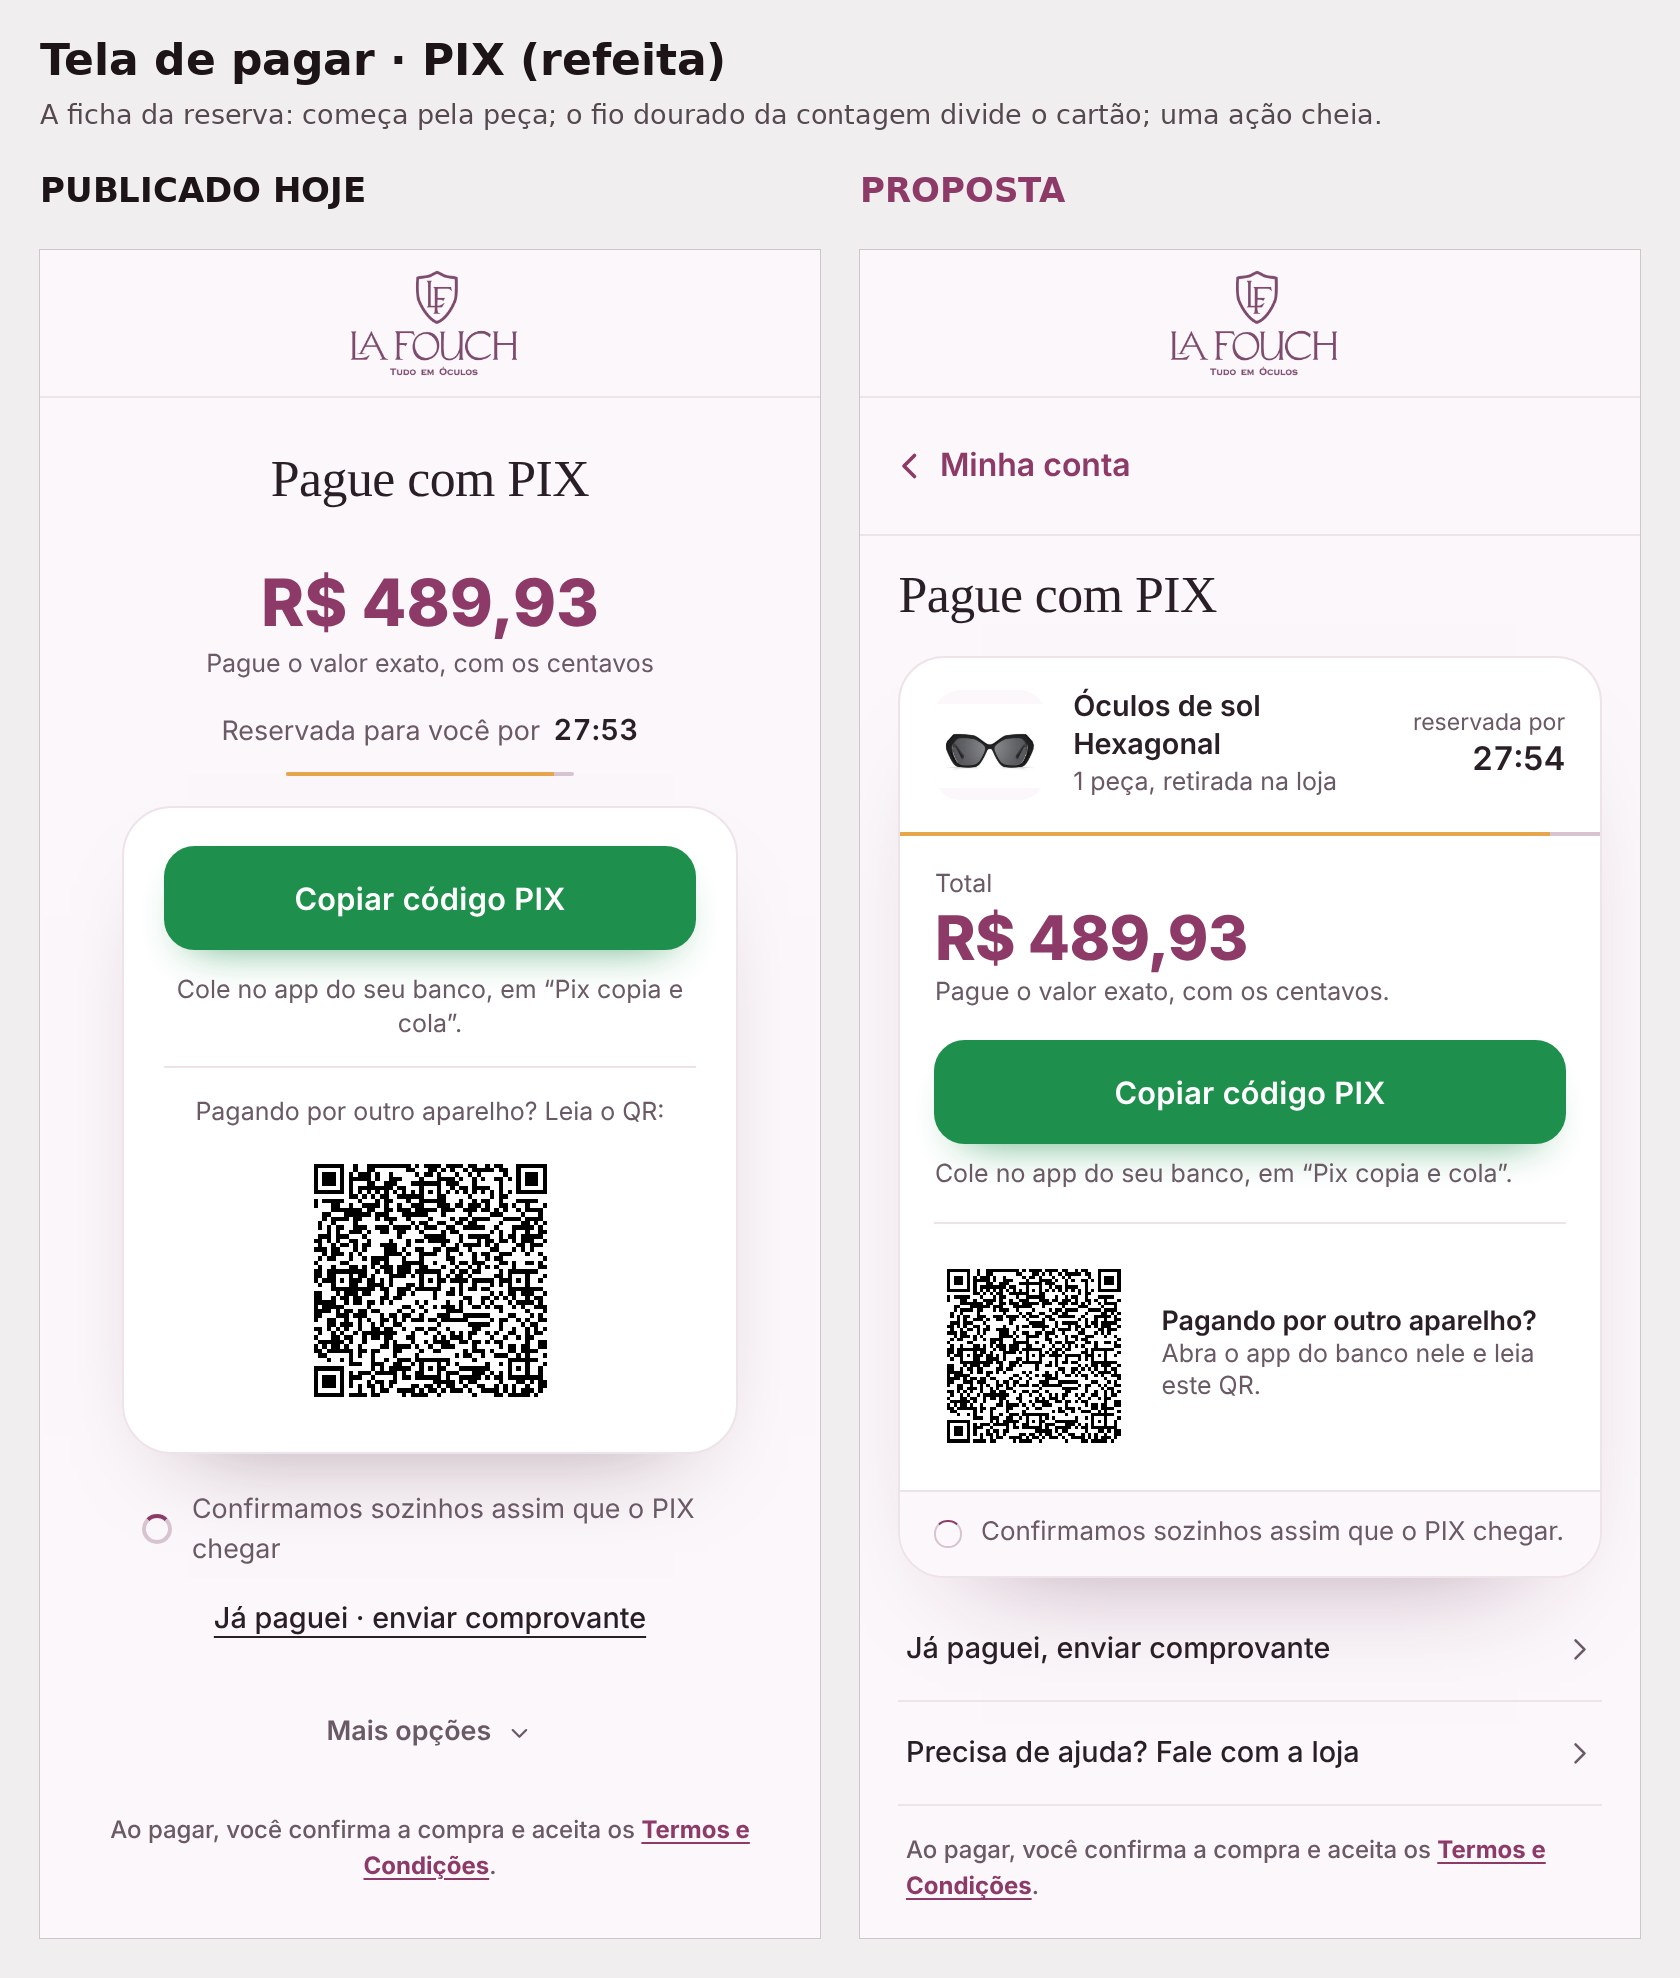
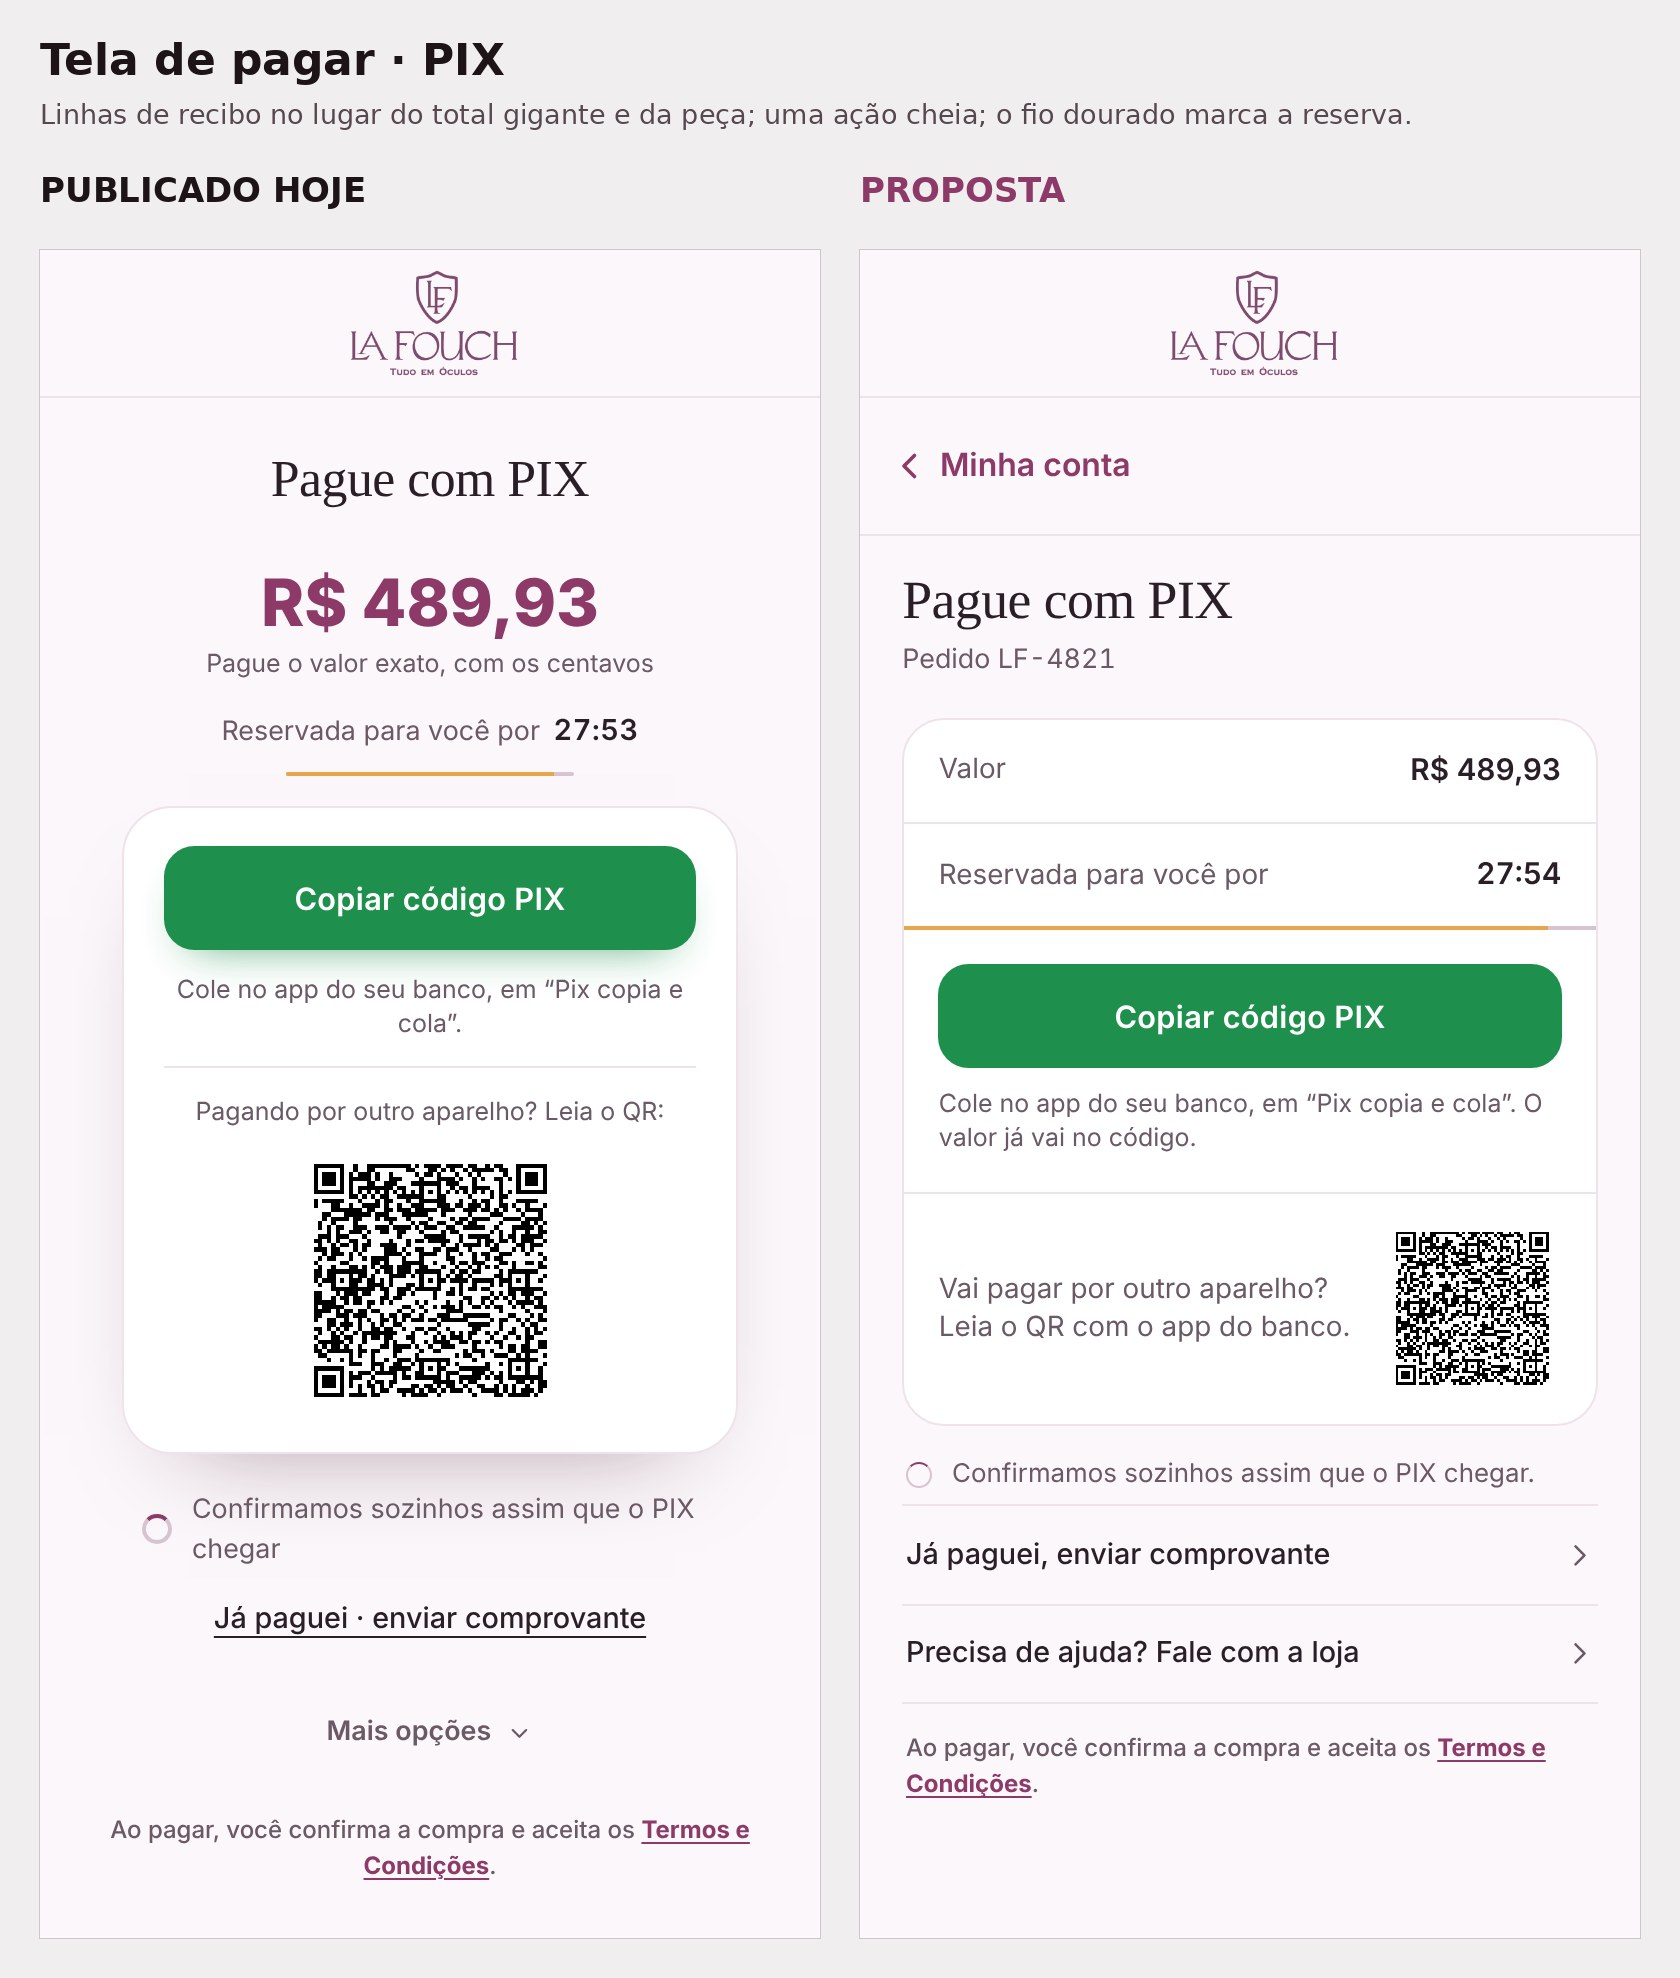
S317: tela de pagar em linhas de recibo e cartão do pedido alinhado (esboço)
Claude-Session: https://claude.ai/code/session_01Vj5GPR2QjandaFr6ascRKC

diff --git a/work/s316/novo2.js b/work/s316/novo2.js
@@ -1,0 +1,63 @@
+// S317 — tela de pagar, 2ª versão (só esboço). Raciocínio de e-commerce: o cliente JÁ conferiu as peças e o total três vezes (sacola, entrega, pagamento);
+// esta tela tem um trabalho só — fazer pagar sem dúvida. Então: nada de peça nem total gigante; os dados viram LINHAS de recibo (rótulo à esquerda, valor à direita),
+// o mesmo componente serve PIX e transferência; uma ação cheia; o fio dourado da reserva é a única coisa "com cor" além do botão.
+() => {
+  const o = document.getElementById('pkok'); if (!o) return 'sem tela';
+  const pix = !!o.querySelector('#pgq'), T = (s) => { const e = o.querySelector(s); return e ? e.innerText.trim() : ''; };
+  const valor = T('.pgv'), tempo = T('#cdxt'), u = o.querySelector('#cdxb'), pct = u ? parseFloat(u.style.width) || 93 : 93;
+  const qr = pix ? o.querySelector('#pgq svg') : null, japag = o.querySelector('#pgcl') && !o.querySelector('#pgcl').hidden;
+  const alias = (o.querySelector('.pgr b') || {}).innerText || '', tit = T('.pgtit').replace(/^Titular:\s*/, '');
+  const topo = document.querySelector('.top').getBoundingClientRect().bottom;
+  const st = document.createElement('style');
+  st.textContent = `
+#zb{position:fixed;left:0;right:0;z-index:10000;display:flex;align-items:center;padding:12px 16px 12px 14px;background:var(--bg);border-bottom:1px solid var(--ln);box-sizing:border-box;zoom:calc(1/var(--z,1))}
+#zb button{display:inline-flex;align-items:center;gap:6px;min-height:44px;padding:10px 6px 10px 2px;background:none;border:0;border-radius:10px;color:var(--ac);font:600 16px Inter,system-ui,sans-serif}
+#pkok.zz{display:block;text-align:left;padding-left:22px;padding-right:22px;padding-bottom:28px}
+#pkok.zz .zw{max-width:400px;margin:0 auto}
+#pkok.zz h2{font-size:28px;line-height:1.15;margin:0;text-align:left;animation:none}
+.zn{margin:6px 0 20px;font:400 14px/1.3 Inter,system-ui,sans-serif;color:var(--mu);font-variant-numeric:tabular-nums}
+.zc{background:var(--pn);border:1px solid var(--ln);border-radius:22px;overflow:hidden}
+.zr{display:flex;align-items:center;justify-content:space-between;gap:14px;min-height:54px;padding:0 18px;border-top:1px solid var(--ln);font:400 14.5px/1.3 Inter,system-ui,sans-serif;color:var(--mu)}
+.zc>.zr:first-child{border-top:0}
+.zr b{font:600 15.5px/1.3 Inter,system-ui,sans-serif;color:var(--tx);font-variant-numeric:tabular-nums;text-align:right;overflow-wrap:anywhere}
+.zr span.zk{display:inline-flex;align-items:center;gap:12px}
+.zr button{flex:none;min-height:44px;padding:0;background:none;border:0;color:var(--ac);font:600 14px Inter,system-ui,sans-serif}
+.zf{height:2px;background:var(--ln2)}.zf i{display:block;height:100%;background:#e6a64c}
+.zm{padding:18px}
+.zP{display:flex;align-items:center;justify-content:center;width:100%;min-height:54px;margin:0;border:0;border-radius:16px;background:#1f8f4e;color:#fff;font:600 16px Inter,system-ui,sans-serif;letter-spacing:.01em}
+.zl{margin-top:10px;font:400 13px/1.4 Inter,system-ui,sans-serif;color:var(--mu)}
+.zq{display:flex;align-items:center;justify-content:space-between;gap:14px;padding:14px 18px;border-top:1px solid var(--ln);font:400 14.5px/1.35 Inter,system-ui,sans-serif;color:var(--mu)}
+.zq svg{flex:none;width:92px!important;height:92px!important;border-radius:8px;background:#fff}
+.zs{display:flex;align-items:center;gap:10px;margin:16px 2px 6px;font:400 13.5px/1.35 Inter,system-ui,sans-serif;color:var(--mu)}
+.zs .spn{width:14px;height:14px;border-width:2px}
+.za a{display:flex;align-items:center;justify-content:space-between;min-height:52px;padding:0 2px;border-top:1px solid var(--ln);color:var(--tx);font:500 15px Inter,system-ui,sans-serif;text-decoration:none}
+.za a:last-child{border-bottom:1px solid var(--ln)}
+.za a svg{color:var(--mu);flex:none}
+#pkok.zz .tm{margin:14px 2px 0;text-align:left;max-width:none}`;
+  document.head.appendChild(st);
+  const bar = document.createElement('div'); bar.id = 'zb'; bar.style.top = topo + 'px';
+  bar.innerHTML = '<button type="button"><svg width="18" height="18" viewBox="0 0 24 24" fill="none" stroke="currentColor" stroke-width="2.4" stroke-linecap="round" stroke-linejoin="round" aria-hidden="true"><path d="M15 5l-7 7 7 7"/></svg><span>Minha conta</span></button>';
+  document.body.appendChild(bar);
+  const SETA = '<svg width="16" height="16" viewBox="0 0 24 24" fill="none" stroke="currentColor" stroke-width="2" stroke-linecap="round" stroke-linejoin="round" aria-hidden="true"><path d="M9 5l7 7-7 7"/></svg>';
+  const L = (r, v, cp) => '<div class="zr"><span>' + r + '</span><span class="zk"><b>' + v + '</b>' + (cp ? '<button type="button">Copiar</button>' : '') + '</span></div>';
+  const reserva = L('Reservada para você por', tempo) + '<div class="zf"><i style="width:' + pct + '%"></i></div>';
+  let corpo, estado, acoes = '';
+  if (pix) {
+    corpo = L('Valor', valor) + reserva +
+      '<div class="zm"><button type="button" class="zP">Copiar código PIX</button><div class="zl">Cole no app do seu banco, em “Pix copia e cola”. O valor já vai no código.</div></div>' +
+      '<div class="zq"><span>Vai pagar por outro aparelho?<br>Leia o QR com o app do banco.</span><span id="zqr"></span></div>';
+    estado = '<div class="zs"><span class="spn"></span><span>Confirmamos sozinhos assim que o PIX chegar.</span></div>';
+    if (japag) acoes += '<a href="#">Já paguei, enviar comprovante' + SETA + '</a>';
+  } else {
+    corpo = L('Valor exato', valor, 1) + L('Alias (celular)', alias, 1) + L('Titular', tit) + reserva +
+      '<div class="zm"><button type="button" class="zP">Já transferi, enviar comprovante</button><div class="zl">Transfira o valor exato pelo app do seu banco e envie o comprovante aqui.</div></div>';
+    estado = '<div class="zs"><span>Confirmamos o pedido assim que conferirmos o comprovante.</span></div>';
+  }
+  acoes += '<a href="#">Precisa de ajuda? Fale com a loja' + SETA + '</a>';
+  const termos = o.querySelector('.tm').outerHTML;
+  o.classList.add('zz');
+  o.innerHTML = '<div class="zw"><h2>' + (pix ? 'Pague com PIX' : 'Transferência Banco Familiar') + '</h2><p class="zn">Pedido LF-4821</p><div class="zc">' + corpo + '</div>' + estado + '<div class="za">' + acoes + '</div>' + termos + '</div>';
+  if (qr) o.querySelector('#zqr').replaceWith(qr);
+  o.style.paddingTop = (topo + bar.getBoundingClientRect().height + 24) + 'px';
+  return 'ok';
+}

diff --git a/work/s316/esb.py b/work/s316/esb.py
@@ -4,14 +4,19 @@ from playwright.sync_api import sync_playwright
 from PIL import Image,ImageDraw,ImageFont
 OUT='/home/claude/lafouch/work/s316/';T='/tmp/s316/'
 F=lambda s,bd=False:ImageFont.truetype('/usr/share/fonts/truetype/dejavu/DejaVuSans%s.ttf'%('-Bold' if bd else ''),s)
-OLHO=open('/home/claude/lafouch/work/kit/olho.js').read();NOVO=open(OUT+'novo.js').read()
+OLHO=open('/home/claude/lafouch/work/kit/olho.js').read();NOVO=open(OUT+'novo2.js').read()
 CONTA="""()=>{const b=document.querySelector('[data-id=kitped1]');if(!b)return 'sem cartão';const g=getComputedStyle(b);
-  const d=document.createElement('div');d.style.cssText='position:relative;border:'+g.border+';border-radius:'+g.borderRadius+';background:'+g.backgroundColor+';margin:'+g.margin;
-  b.style.border='0';b.style.margin='0';b.style.background='none';b.style.width='100%';b.style.paddingBottom='34px';
-  b.insertAdjacentHTML('beforeend','<svg width="14" height="14" viewBox="0 0 24 24" fill="none" stroke="currentColor" stroke-width="2" stroke-linecap="round" stroke-linejoin="round" aria-hidden="true" style="flex:none;margin-left:2px;margin-right:-6px;color:var(--mu)"><path d="M9 5l7 7-7 7"/></svg>');
-  const tb=b.querySelector('b');if(tb)tb.style.whiteSpace='nowrap';
-  b.replaceWith(d);d.appendChild(b);
-  const c=document.createElement('button');c.type='button';c.textContent='Cancelar';c.style.cssText='position:absolute;right:'+g.paddingRight+';bottom:0;min-height:44px;padding:0 0 0 14px;background:none;border:0;color:var(--mu);font:500 13px Inter,system-ui,sans-serif;text-decoration:underline;text-decoration-thickness:1px;text-underline-offset:3px;cursor:pointer';d.appendChild(c);return 'ok'}"""
+  // cartão em duas linhas alinhadas: (1) pedido · estado · ›   (2) data/forma/entrega · Cancelar — as duas na mesma linha de base, "Cancelar" alinhado à direita com o estado
+  const d=document.createElement('div');d.className=b.className;d.style.cssText='display:block;text-align:left;width:100%;box-sizing:border-box;cursor:pointer';
+  const t=b.querySelector('b'),m=b.querySelector('small'),e=b.querySelector('em');
+  const l1=document.createElement('div');l1.style.cssText='display:flex;align-items:center;justify-content:space-between;gap:10px';
+  const dir=document.createElement('span');dir.style.cssText='display:inline-flex;align-items:center;gap:6px;flex:none';dir.appendChild(e);
+  dir.insertAdjacentHTML('beforeend','<svg width="14" height="14" viewBox="0 0 24 24" fill="none" stroke="currentColor" stroke-width="2" stroke-linecap="round" stroke-linejoin="round" aria-hidden="true" style="flex:none;color:var(--mu);margin-right:-4px"><path d="M9 5l7 7-7 7"/></svg>');
+  t.style.cssText='white-space:nowrap;display:block';l1.append(t,dir);
+  const l2=document.createElement('div');l2.style.cssText='display:flex;align-items:baseline;justify-content:space-between;gap:10px;margin-top:6px';
+  m.style.cssText='display:block;margin:0';
+  const c=document.createElement('button');c.type='button';c.textContent='Cancelar';c.style.cssText='flex:none;margin:-14px 16px -14px 0;min-height:44px;padding:0 0 0 14px;background:none;border:0;color:var(--mu);font:'+getComputedStyle(m).font+';text-decoration:underline;text-decoration-thickness:1px;text-underline-offset:3px;cursor:pointer';
+  l2.append(m,c);d.append(l1,l2);b.replaceWith(d);return 'ok'}"""
 def olho(pg,w,sel):
     r=set()
     for rola in (0,1):
@@ -37,9 +42,9 @@ def prancha(nome,titulo,sub,cols):
     for i,(im,(p,r)) in enumerate(zip(ims,cols)):
         x=g+i*(w+g);d.text((x,170),r,font=F(34,True),fill='#8d3a69' if i else '#1d1418');S.paste(im,(x,top));d.rectangle([x-1,top-1,x+w,top+h],outline='#cfc6cb')
     S.save(OUT+nome,quality=88);print(' ',nome)
-TELAS=[('1-pagar-pix.jpg','Tela de pagar · PIX (refeita)','A ficha da reserva: começa pela peça; o fio dourado da contagem divide o cartão; uma ação cheia.',dict(minutos=2),0),
-       ('2-pagar-transferencia.jpg','Tela de pagar · Transferência Paraguai (refeita)','Mesma ficha: dados do Banco Familiar em linhas com "Copiar"; a ação cheia é enviar o comprovante.',dict(minutos=2,pag='alias'),0),
-       ('3-minha-conta-pedidos.jpg','Minha conta › Pedidos · pedido ainda não pago','Tocar no pedido leva a pagar; "Cancelar" dentro do pedido, pequeno e na cor do texto.',dict(minutos=2),1)]
+TELAS=[('1-pagar-pix.jpg','Tela de pagar · PIX','Linhas de recibo no lugar do total gigante e da peça; uma ação cheia; o fio dourado marca a reserva.',dict(minutos=2),0),
+       ('2-pagar-transferencia.jpg','Tela de pagar · Transferência Paraguai','O mesmo desenho: cada dado numa linha com "Copiar"; a ação cheia é enviar o comprovante.',dict(minutos=2,pag='alias'),0),
+       ('3-minha-conta-pedidos.jpg','Minha conta › Pedidos · pedido ainda não pago','Duas linhas alinhadas: pedido e estado em cima; data e "Cancelar" embaixo, na mesma linha de base.',dict(minutos=2),1)]
 with sync_playwright() as pw:
     for nome,tit,sub,kw,conta in TELAS:
         a,fa,_=tela(pw,kw,conta,0);b,fb,inf=tela(pw,kw,conta,1);print(nome,'altura',inf,'novas falhas x hoje:',sorted(fb-fa) or 'nenhuma')

diff --git a/docs/MEMORIA-PROJETO.md b/docs/MEMORIA-PROJETO.md
@@ -2578,3 +2578,9 @@ Decisões do dono sobre a tela Venda confirmada (esboço "venda_confirmada_compr
   · Transferência Paraguai: Total a transferir com "Copiar", Alias (celular) com "Copiar", Titular; ação cheia "Já transferi, enviar comprovante" (enquanto TRF_AUTO=false).
   · Minha conta: cartão do pedido tocável com "›" e "Cancelar" 13 px dentro do cartão, canto inferior direito, área de toque 44 px.
 - Arquivos: work/s316/1-pagar-pix.jpg, 2-pagar-transferencia.jpg, 3-minha-conta-pedidos.jpg. olho.js: nenhuma falha nova real (só o alarme falso da barra sobre a página de trás). Conteúdo passa ~11–18 px de 844 (rola um pouco). Só celular 390, claro, PT. NÃO feito: PC, tablet, temáticas, espanhol, vários itens no pedido, Reserva encerrada/Comprovante enviado no desenho novo. NADA implementado.
+
+### S317 (14/11/2026 23:05) — tela de pagar, 2ª versão em "linhas de recibo" (ESBOÇO, aguardando o dono)
+- DONO 22:51 sobre o S316: aba de pedidos = ideia boa mas o "Cancelar" mal alinhado; "Total a transferir" ESCANDALOSO; mostrar a peça é desnecessário (o cliente já conferiu várias vezes) e fica feio com várias peças; pediu design pensado como designer de e-commerce, com os pontos elaborados.
+- Raciocínio (work/s316/novo2.js): a tela tem UM trabalho, fazer pagar sem dúvida. O cliente já viu peças e total em sacola, entrega e pagamento → sai a peça e o total gigante. Os dados viram LINHAS de recibo (rótulo à esquerda, valor à direita, mesmo peso): PIX = Valor · Reservada para você por (com o fio dourado embaixo); Transferência = Valor exato [Copiar] · Alias (celular) [Copiar] · Titular · Reservada. Mesmo componente nos dois métodos. Uma ação cheia; dica de uma linha ("O valor já vai no código"); QR 92 px numa linha "Vai pagar por outro aparelho?"; estado em texto; ações em linhas com "›"; "Pedido LF-4821" sob o título como referência. Cabe em 844 sem rolar (879/879).
+- Minha conta: cartão em duas linhas alinhadas — "Pedido" + estado + "›" em cima; data/forma/entrega + "Cancelar" (mesma letra da data, sublinhado fino) embaixo, na mesma linha de base e alinhado à direita com o estado.
+- Arquivos regravados em work/s316 (1-pagar-pix, 2-pagar-transferencia, 3-minha-conta-pedidos). olho.js: nenhuma falha nova real. Só celular 390, claro, PT. NADA implementado.
